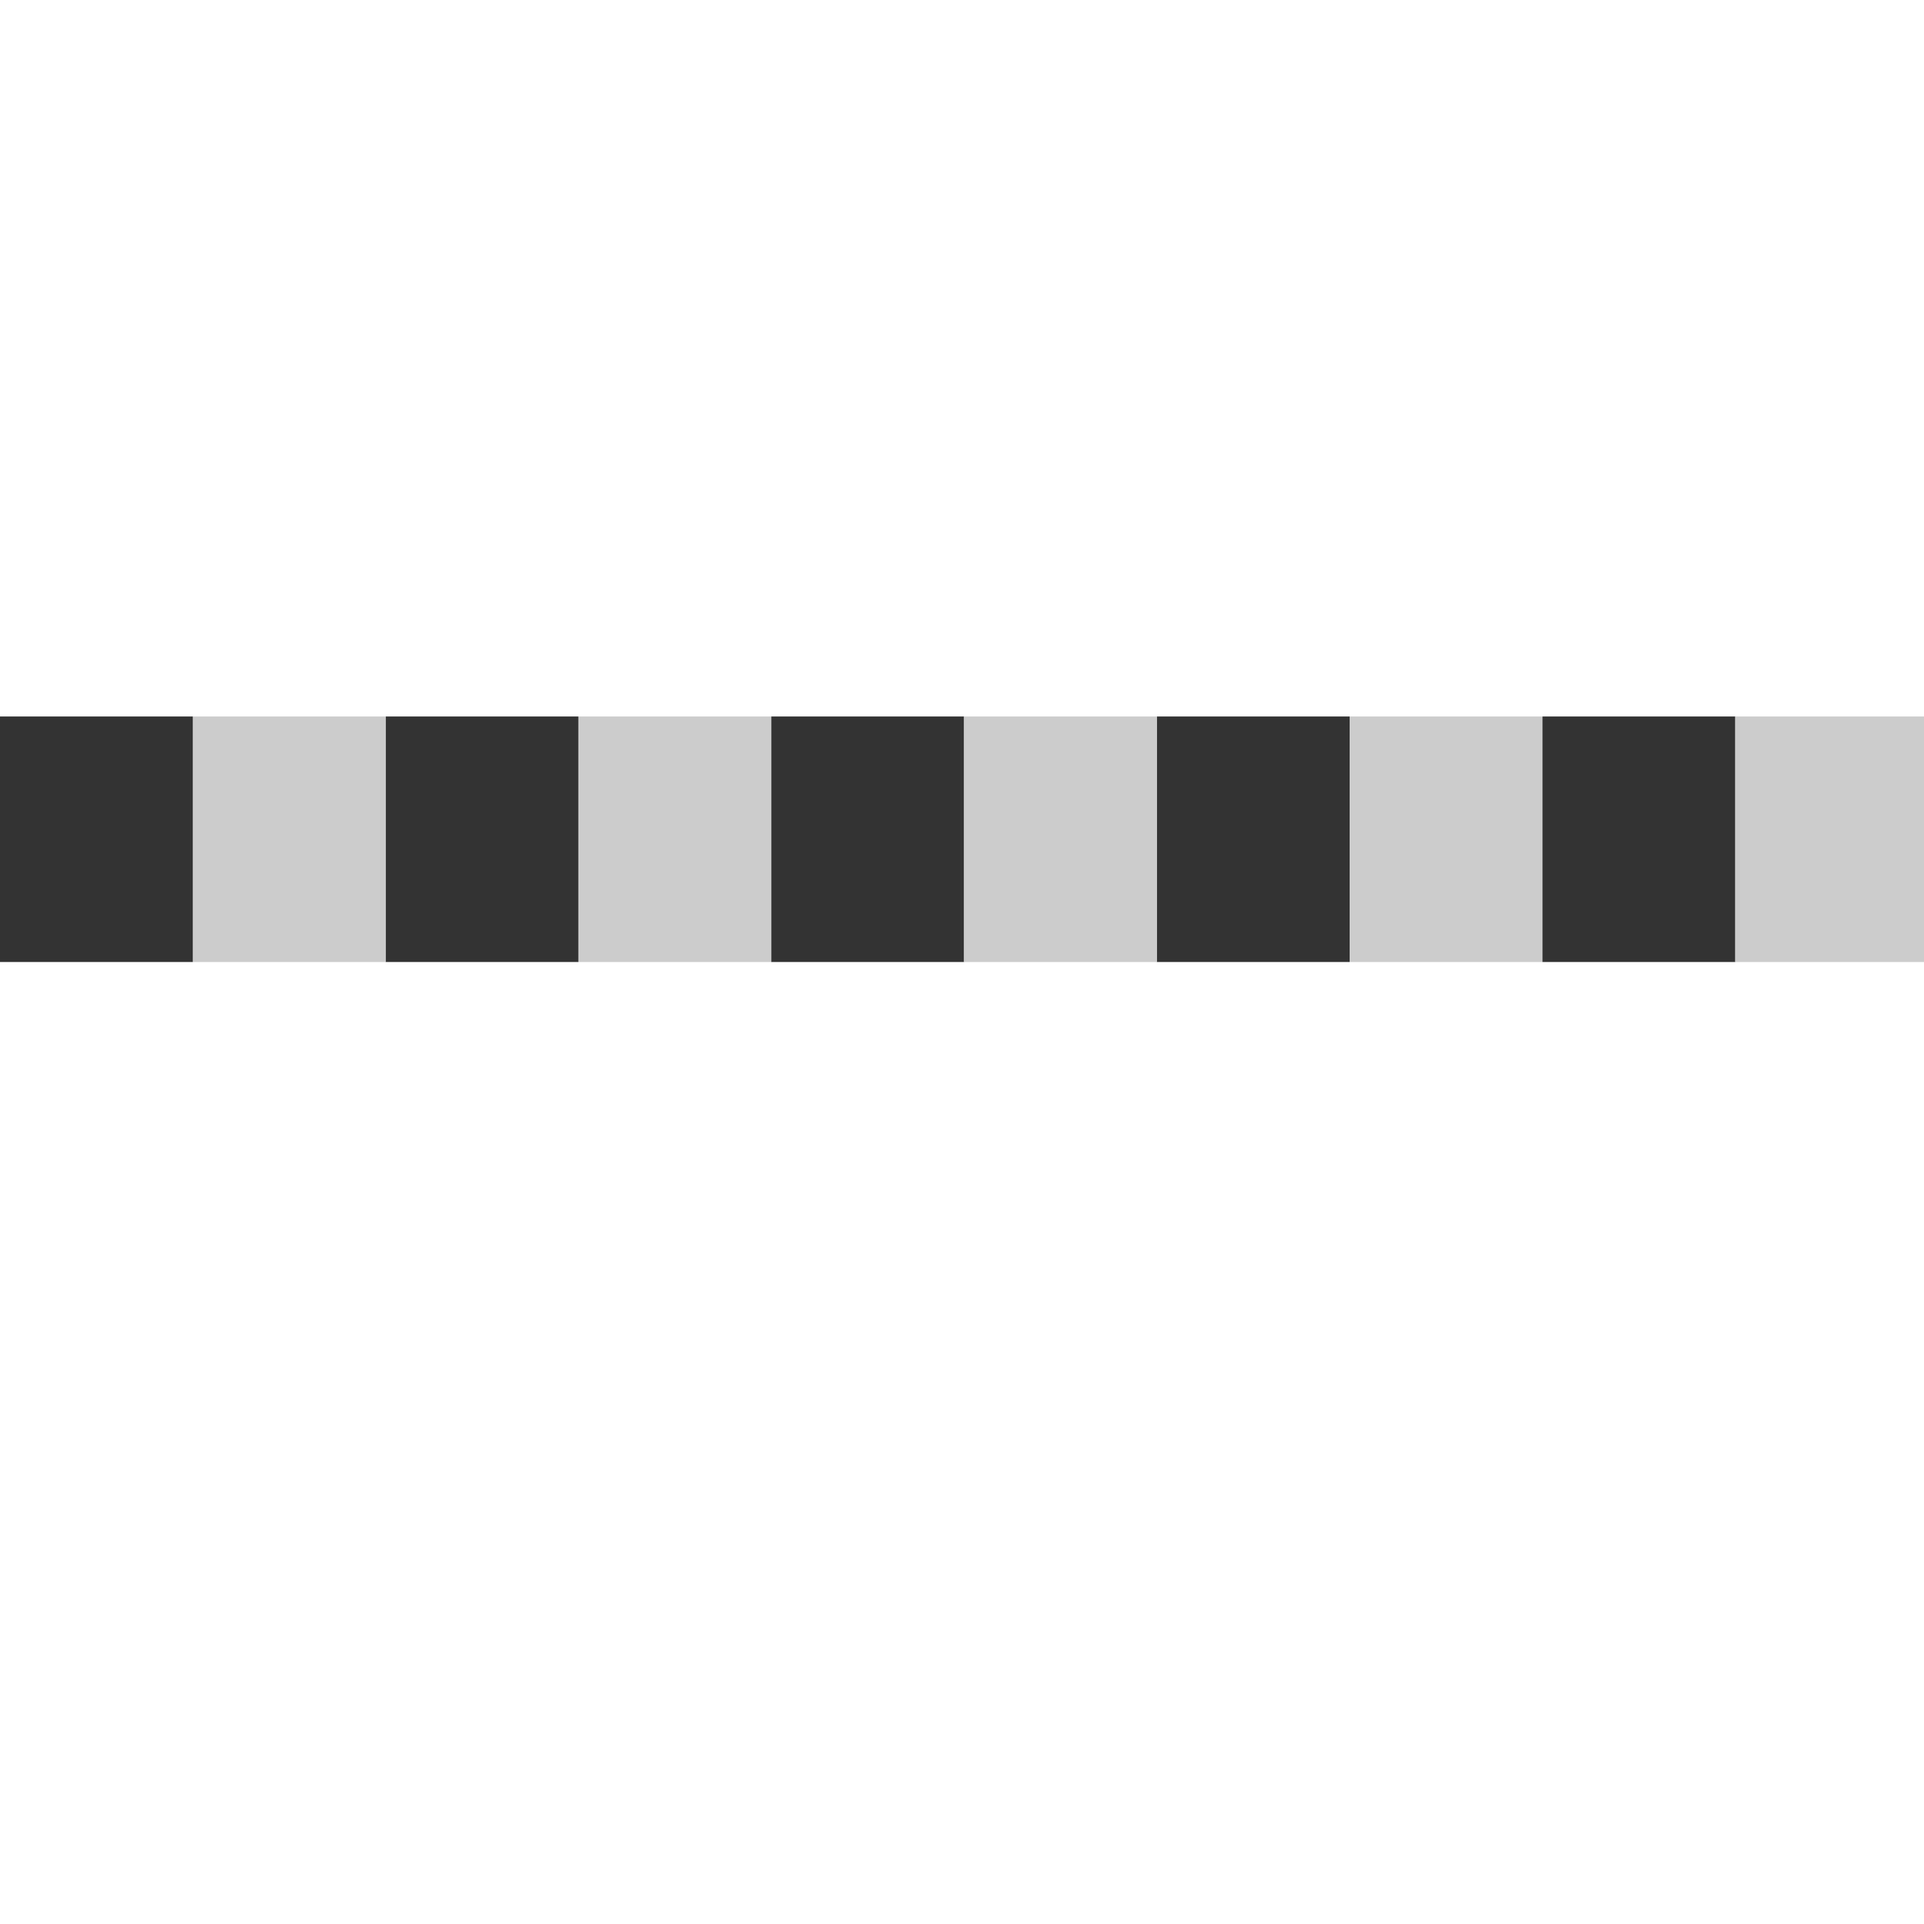
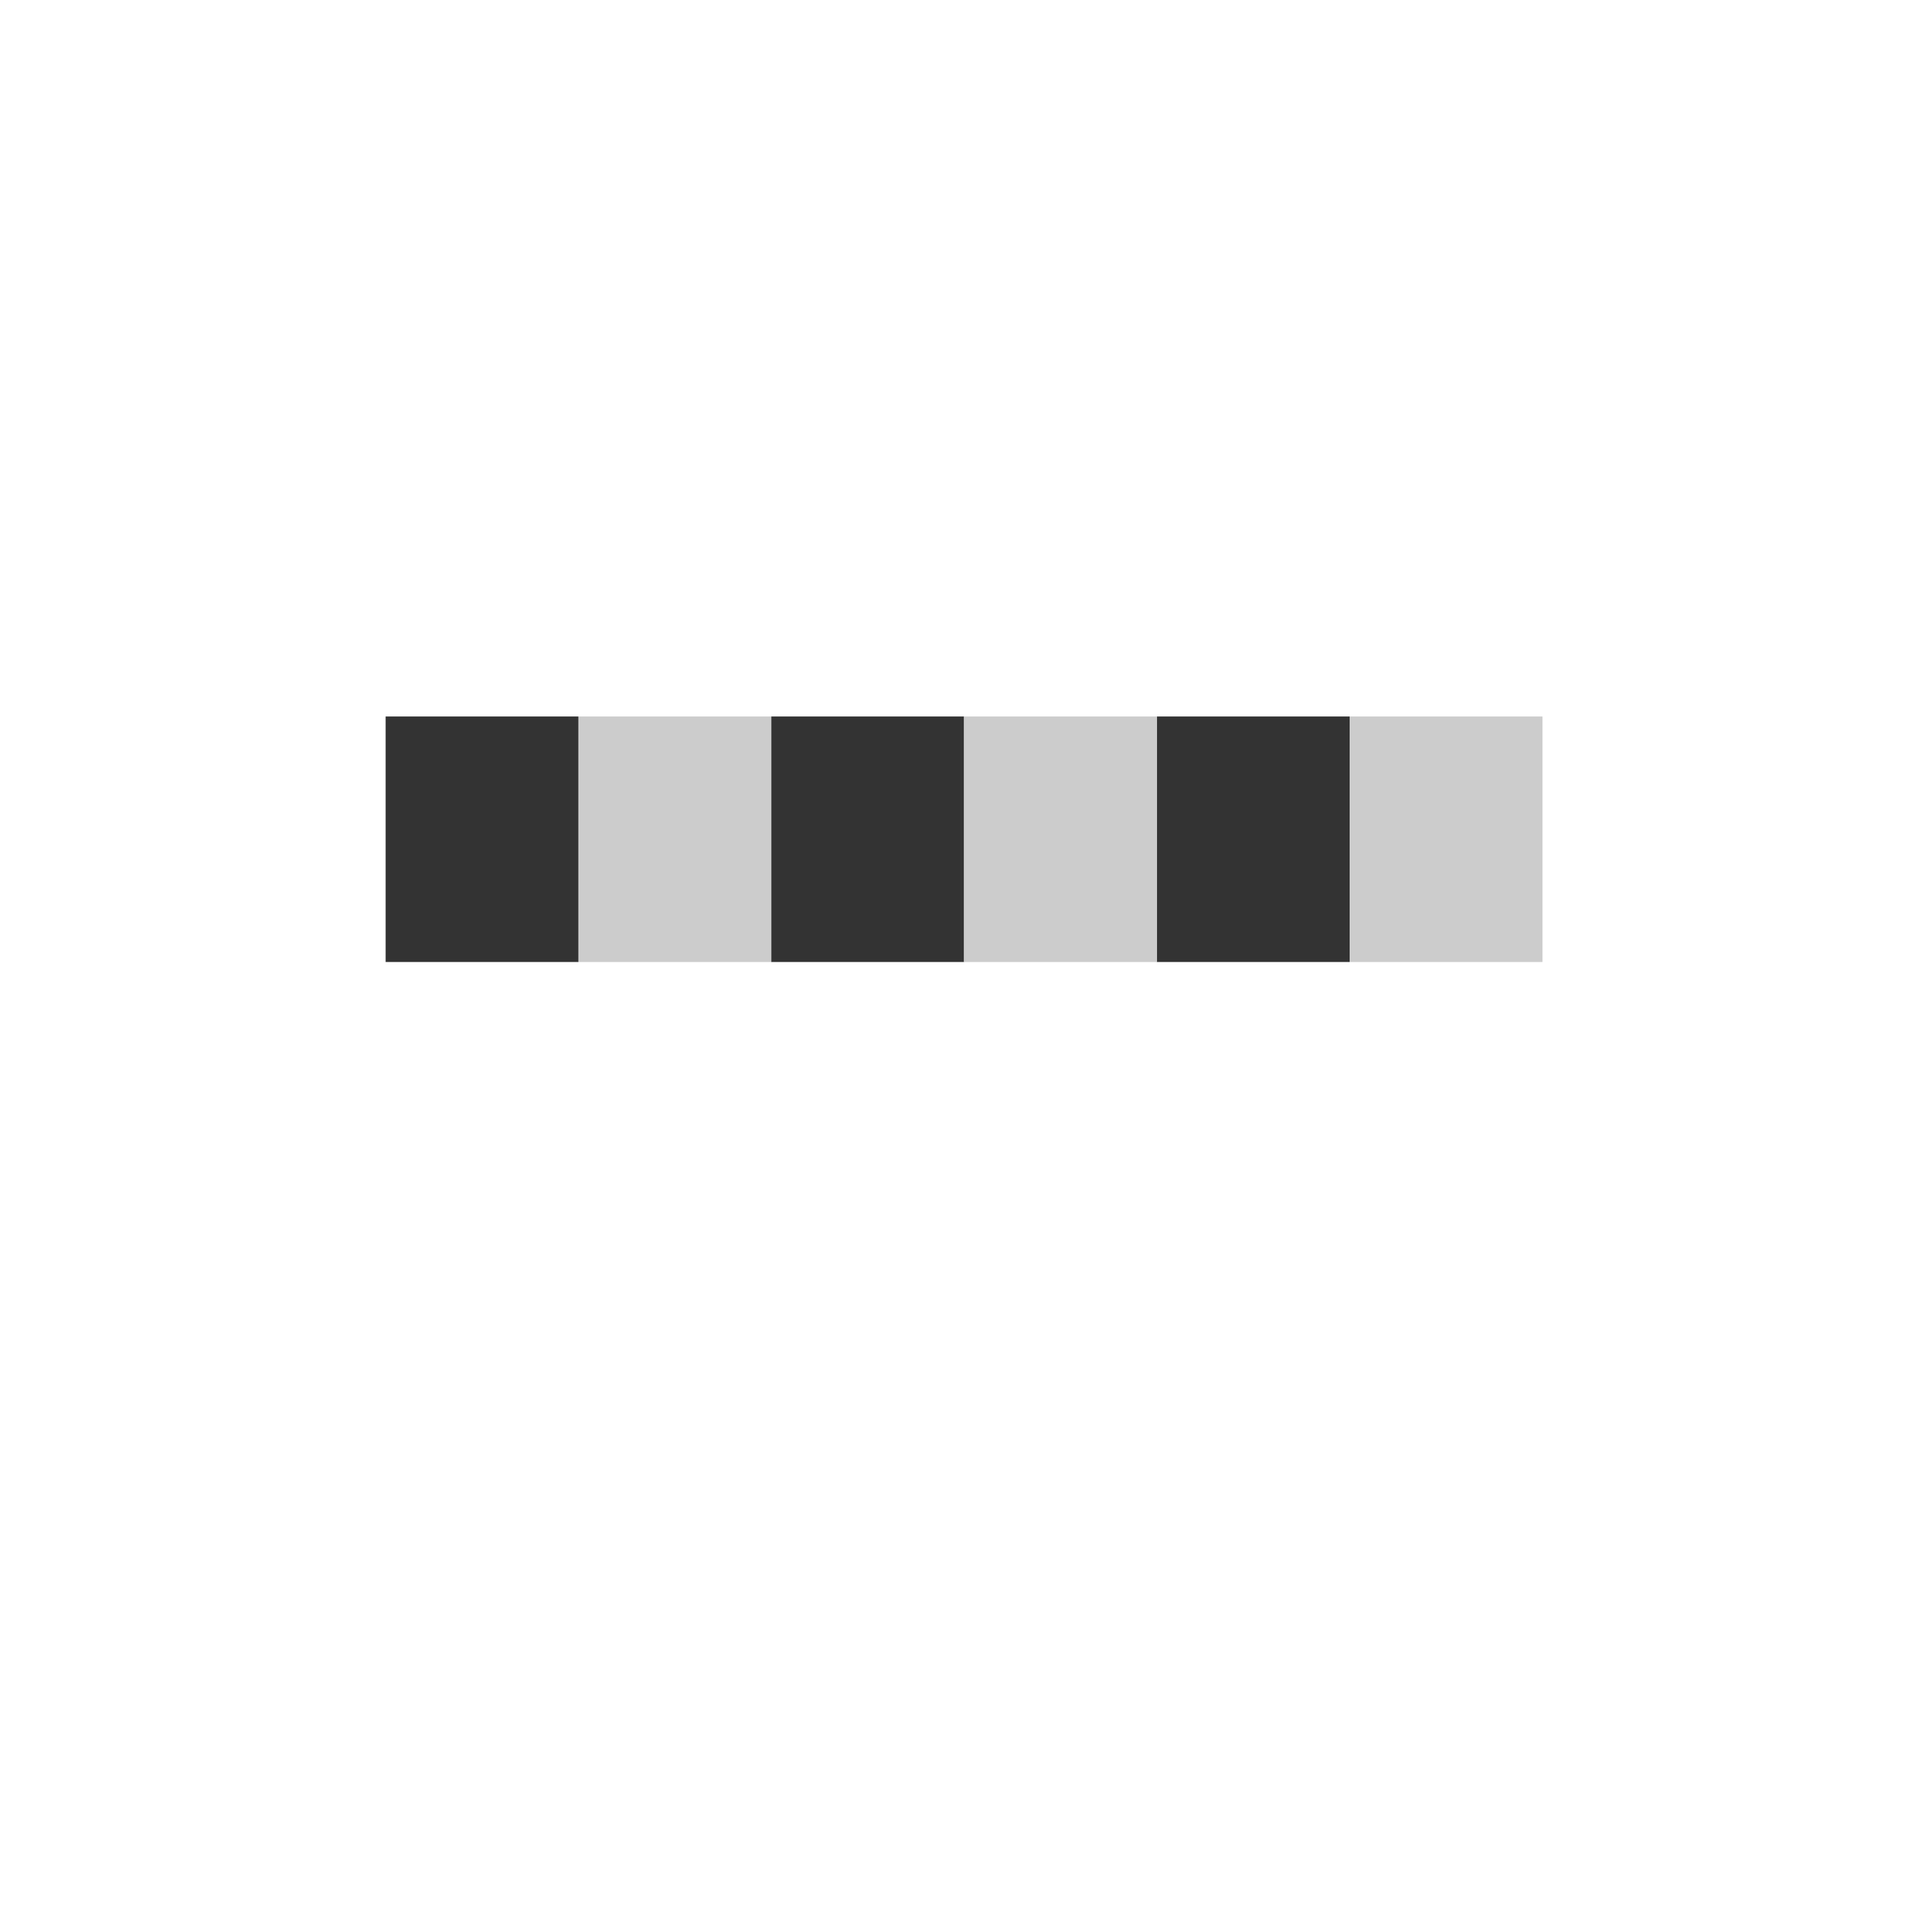
preliminary version of cyc04 exp01-exp04 done on iMac

Changed region(s): [[0.7742, 0.3716, 1.0, 0.5265], [0.0, 0.3716, 0.2168, 0.5265]]

diff --git a/stimulus/cyc04_exp04.py b/stimulus/cyc04_exp04.py
@@ -12,13 +12,9 @@ Task Procedure:
     Subject adjusts the horizontal component of the "T" to obtain symmetry
 
 ----------
-FOUR stimuli:
-    Flash-Grab stimulus + half-disc mask
-    Flash-Grab stimulus + frame mask
-    Frame-Effect stimulus + half-disc mask
-    Frame-Effect stimulus + frame mask
+TWO fixation positions
 
-TWO post-flash dirctions:
+Two post-flash dirctions:
         -1: leftward post-flash motion
         +1: rightward post-flash motion
 
@@ -64,13 +60,13 @@ pd.options.mode.chained_assignment = None  # default='warn'
 
 subID = 'test'
 nrep = 5
-nstm = 4  # number of stimuli (FG_maskFG, FG_maskFE, FE_maskFG, FE_maskFE)
+nfix = 2  # number of fixation locations
 ndir = 2  # number of direction of motions (flash-left, flash-right)
-ntrs = nrep * nstm * ndir
+ntrs = nrep * nfix * ndir
 nblocks = 1
 
 if subID == 'test':
-    full_screen = True
+    full_screen = False
 else:
     full_screen = True
 # ----------------------------------------------------------------------------
@@ -79,7 +75,7 @@ else:
 # file names and directory paths
 date = sfc.get_date()
 time = sfc.get_time()
-output_file_name = f"exp03_{subID}_{date}_{time}.json"
+output_file_name = f"exp04_{subID}_{date}_{time}.json"
 save_path = os.path.join("..", "data", "cyc04", output_file_name)
 image_path = os.path.join("image", "cyc04")
 
@@ -88,41 +84,31 @@ image_path = os.path.join("image", "cyc04")
 
 # monitor and window
 refresh_rate = 120  # [frames/s]
+# mon = sfc.config_mon_dell()
 mon = sfc.config_mon_imac24()
-win = sfc.config_win(mon=mon, fullscr=full_screen)
+# win = sfc.config_win(mon=mon, fullscr=full_screen)
+win = visual.Window(monitor=mon,
+                    units='deg',
+                    size=[1440, 700],
+                    pos=[0, 0],
+                    color=[0, 0, 0])
 sfc.test_refresh_rate(win, refresh_rate)
 
 # fixation mark
 fixdot_radius = .25  # [dva]
-FIX_X = 0
-FIX_Y = 0
+FIX_Y = 3.5
 
 # FG
-FG_size = 50  # [dva]
-FG_x = FIX_X
-FG_y = FIX_Y
-
-# FE
-FE_size = 50  # [dva]
-FE_x = FIX_X
-FE_y = FIX_Y + .5
-
-# maskFG
-maskFG_size = 50  # [dva]
-maskFG_x = FIX_X
-maskFG_y = FIX_Y
-
-# maskFE
-maskFE_size = 50  # [dva]
-maskFE_x = FIX_X
-maskFE_y = FIX_Y + .5
+FG_size = 10  # [dva]
+FG_x = 0
+FG_y = 0
 
 # probe
 bar_size = 2.4  # [dva]
-bar_h_y = FIX_Y + 4.2  # [dva]
-bar_v_x = FIX_X
-bar_v_y = FIX_Y + 4.2  # [dva]
-bar_h_x_limit = bar_size / 2.52
+bar_h_y = 4.2  # [dva]
+bar_v_x = 0
+bar_v_y = 4.2  # [dva]
+bar_h_x_limit = .95  # [dva]
 probe_duration = 2  # [frames]
 
 # motion
@@ -139,15 +125,15 @@ warnings.simplefilter(action='ignore', category=FutureWarning)
 # /// CONDITIONS ///
 
 # create an equal number of trials per condition
-stm_array = np.repeat(['FG_maskFG', 'FG_maskFE', 'FE_maskFG', 'FE_maskFE'], 10)
-assert (stm_array.size == ntrs)
-dir_array = np.tile(np.repeat([-1, 1], 5), 4)
+fix_x_array = np.repeat([-3.5, 3.5], 10)
+assert (fix_x_array.size == ntrs)
+dir_array = np.tile(np.repeat([-1, 1], 5), 2)
 assert (dir_array.size == ntrs)
 
 # randomize the order of each condition array
 ind_shuffle = np.arange(ntrs)
 np.random.shuffle(ind_shuffle)
-stm_array = stm_array[ind_shuffle]
+fix_x_array = fix_x_array[ind_shuffle]
 dir_array = dir_array[ind_shuffle]
 
 # inter-block trials: trials that define the end of a block
@@ -158,25 +144,10 @@ pause_array = pause_array[:-1]
 # /// VISUAL OBJECTS ///
 
 # FG
-FG_directory = os.path.join(image_path, 'largeFG.png')
+FG_directory = os.path.join(image_path, 'FG.png')
 FG = visual.ImageStim(win,
                       image=FG_directory,
                       size=FG_size)
-# FE
-FE_directory = os.path.join(image_path, 'largeFE.png')
-FE = visual.ImageStim(win,
-                      image=FE_directory,
-                      size=FE_size)
-# maskFG
-maskFG_directory = os.path.join(image_path, 'maskFG.png')
-maskFG = visual.ImageStim(win,
-                          image=maskFG_directory,
-                          size=maskFG_size)
-# maskFE
-maskFE_directory = os.path.join(image_path, 'maskFE.png')
-maskFE = visual.ImageStim(win,
-                          image=maskFE_directory,
-                          size=maskFE_size)
 # probe
 bar_h_directory = os.path.join(image_path, 'bar_h.png')
 bar_h = visual.ImageStim(win,
@@ -190,8 +161,7 @@ bar_v = visual.ImageStim(win,
 # fixation mark
 fixdot = visual.Circle(win,
                        radius=fixdot_radius,
-                       pos=(FIX_X, FIX_Y),
-                       fillColor='black')
+                       fillColor='limegreen')
 
 # ----------------------------------------------------------------------------
 # /// TRIAL BEGIN ///
@@ -200,7 +170,7 @@ for itrial in range(ntrs):
 
     print('---------------------------')
     print(f'trl: {itrial + 1}')
-    print(f'stm: {stm_array[itrial]}')
+    print(f'stm: {fix_x_array[itrial]}')
     print(f'dir: {dir_array[itrial]}')
 
     # --------------------------------
@@ -220,16 +190,8 @@ for itrial in range(ntrs):
     # --------------------------------
     # /// create motion arrays
 
-    if (stm_array[itrial] == 'FG_maskFG') or\
-            (stm_array[itrial] == 'FG_maskFE'):
-        motion_pos1 = 0
-        motion_pos2 = dir_array[itrial] * 90
-    elif (stm_array[itrial] == 'FE_maskFG') or\
-            (stm_array[itrial] == 'FE_maskFE'):
-        motion_pos1 = -dir_array[itrial] * 3.9  # [dva]
-        motion_pos2 = dir_array[itrial] * 3.9  # [dva]
-    else:
-        continue
+    motion_pos1 = 0
+    motion_pos2 = dir_array[itrial] * 90
 
     motion_array_base = np.linspace(motion_pos1, motion_pos2,
                                     num=int(refresh_rate / 2))
@@ -246,14 +208,12 @@ for itrial in range(ntrs):
     # ----------------
     # TEST
     # for i in range(int(refresh_rate * 4)):
-    #     # FE.pos = motion_array[0], FE_y
-    #     # FE.draw()
-    #     FG.ori = motion_array[0]
+    #     FG.pos = motion_array[0], FG_y
     #     FG.draw()
-    #     maskFE.draw()
-    #     # bar_v.draw()
-    #     # bar_h.pos = FIX_X, bar_h_y
-    #     # bar_h.draw()
+    #     bar_v.draw()
+    #     bar_h.pos = 0, bar_h_y
+    #     bar_h.draw()
+    #     fixdot.pos = fix_x_array[itrial], FIX_Y
     #     fixdot.draw()
     #     win.flip()
     # ----------------
@@ -282,27 +242,15 @@ for itrial in range(ntrs):
             if bar_h_x > bar_h_x_limit:
                 bar_h_x = bar_h_x_limit
 
-            if (stm_array[itrial] == 'FG_maskFG') or\
-                    (stm_array[itrial] == 'FG_maskFE'):
-                FG.ori = imotion
-                FG.draw()
-            if (stm_array[itrial] == 'FE_maskFG') or\
-                    (stm_array[itrial] == 'FE_maskFE'):
-                FE.pos = imotion, FE_y
-                FE.draw()
-
-            if (stm_array[itrial] == 'FG_maskFG') or\
-                    (stm_array[itrial] == 'FE_maskFG'):
-                maskFG.draw()
-            if (stm_array[itrial] == 'FG_maskFE') or\
-                    (stm_array[itrial] == 'FE_maskFE'):
-                maskFE.draw()
+            FG.ori = imotion
+            FG.draw()
 
             if imotion == motion_pos1 and loop_cntr > 1:
                 bar_v.draw()
                 bar_h.pos = bar_h_x, bar_h_y
                 bar_h.draw()
 
+            fixdot.pos = fix_x_array[itrial], FIX_Y
             fixdot.draw()
             win.flip()
 
@@ -322,7 +270,7 @@ for itrial in range(ntrs):
 
     # create a dictionary of variables to be saved
     trial_dict = {'trial_number': itrial + 1,
-                  'stimulus_type': stm_array[itrial],
+                  'stimulus_type': fix_x_array[itrial],
                   'postflash_direction': dir_array[itrial],
                   'pse_dva': np.round(bar_h_x, 2),
                   'pse_normallized': np.round(bar_h_x / bar_h_x_limit, 2),
